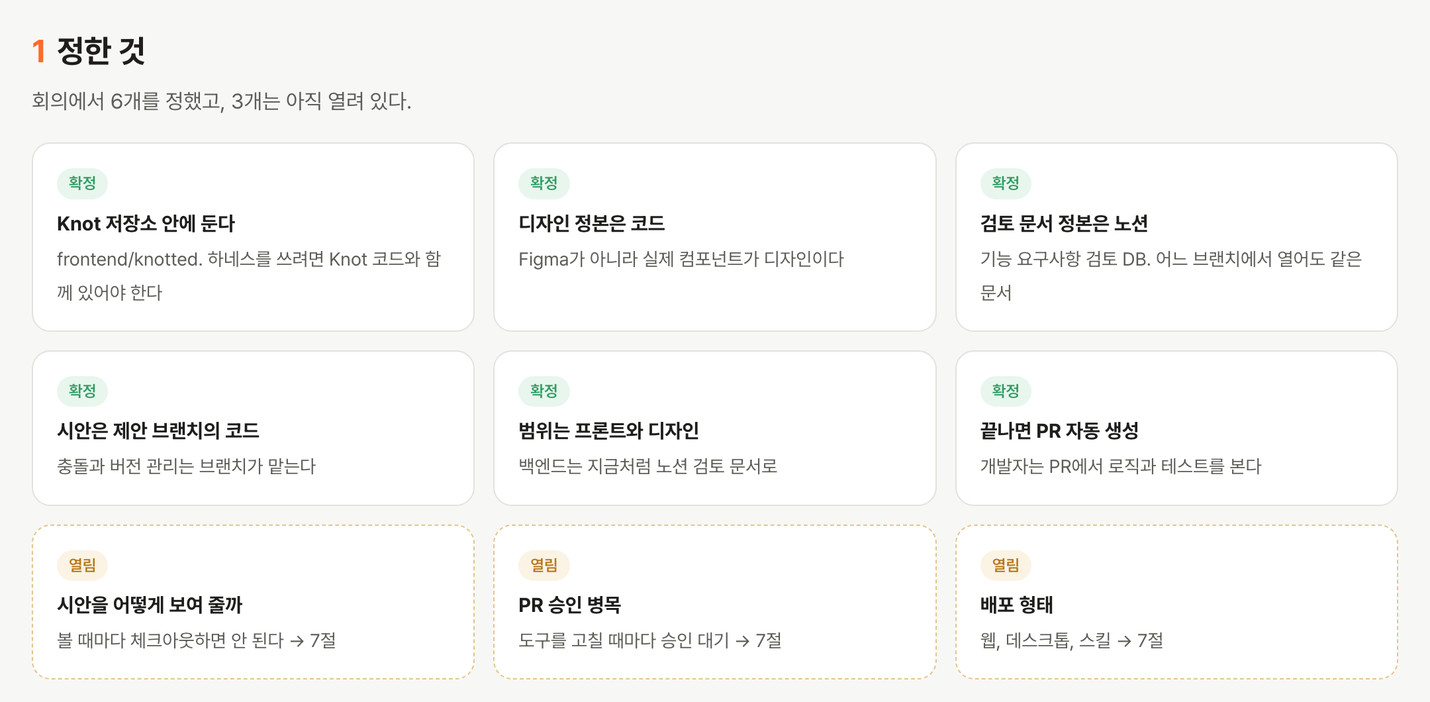
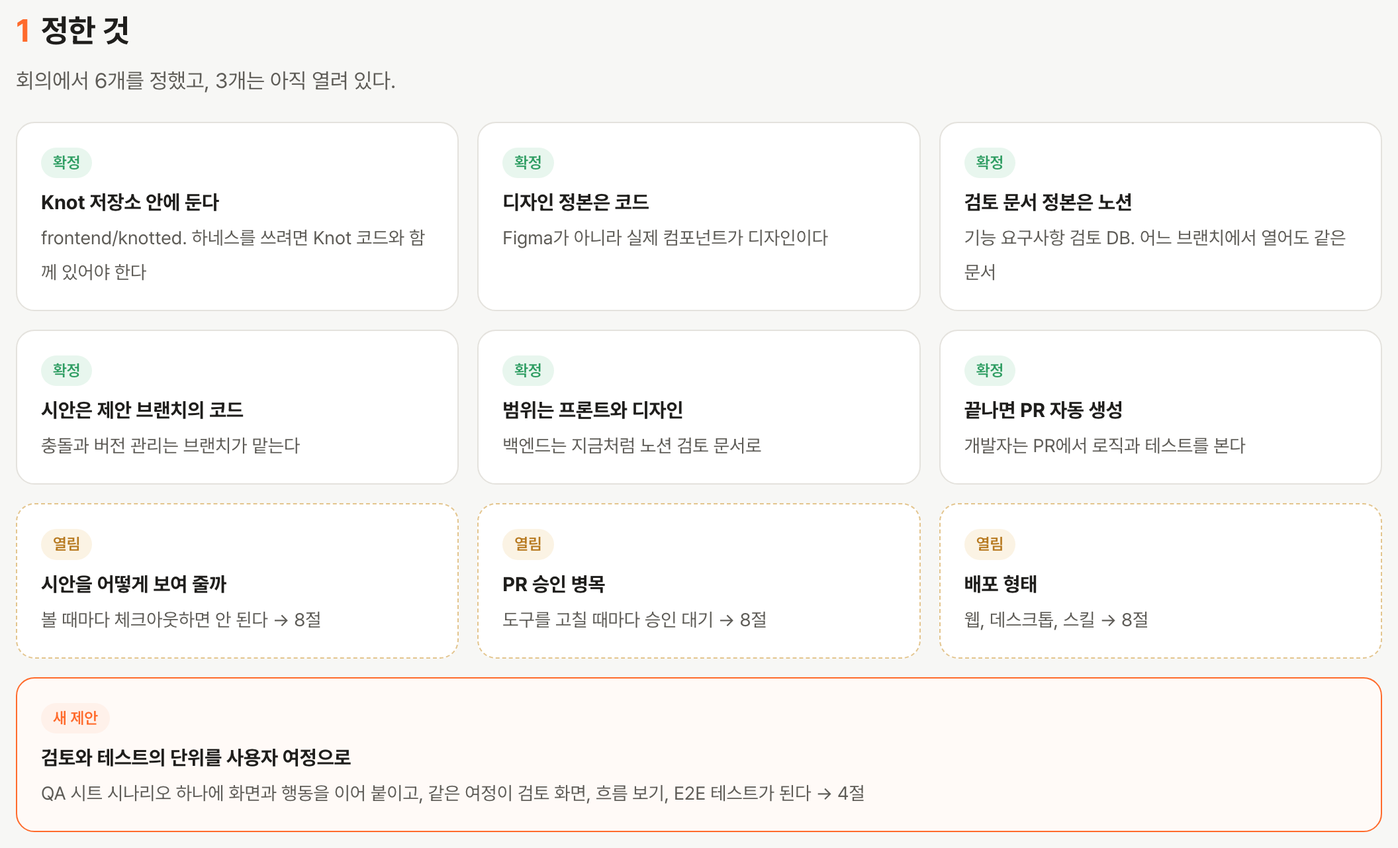
docs: 사용자 여정을 설계에 넣고 그림 갱신

diff --git a/docs/architecture.html b/docs/architecture.html
@@ -82,8 +82,8 @@
   <h1>기획과 시안을 코드로 함께 만들고, 확정까지 받는 Knot 안의 도구</h1>
   <p class="lead">같은 화면을 Figma와 코드에서 두 번 만들던 문제를, 시안을 처음부터 Knot 코드로 만드는 방식으로 없앤다.</p>
   <nav class="toc">
-    <a href="#s1">1. 정한 것</a><a href="#s2">2. 시스템 구조</a><a href="#s3">3. 끼어드는 시점</a><a href="#s4">4. 지금과 비교</a>
-    <a href="#s5">5. 요소 정보가 나오는 길</a><a href="#s6">6. 무엇을 어디에</a><a href="#s7">7. 열린 문제와 제안</a><a href="#s8">8. 고민한 것</a><a href="#s9">9. 폴더 구조</a><a href="#s10">10. 다음 순서</a>
+    <a href="#s1">1. 정한 것</a><a href="#s2">2. 시스템 구조</a><a href="#s3">3. 끼어드는 시점</a><a href="#s4">4. 사용자 여정</a><a href="#s5">5. 지금과 비교</a>
+    <a href="#s6">6. 요소 정보가 나오는 길</a><a href="#s7">7. 무엇을 어디에</a><a href="#s8">8. 열린 문제와 제안</a><a href="#s9">9. 고민한 것</a><a href="#s10">10. 폴더 구조</a><a href="#s11">11. 다음 순서</a>
   </nav>
 </header>
 
@@ -98,9 +98,10 @@
     <div class="decision"><span class="chip ok">확정</span><b>시안은 제안 브랜치의 코드</b><span class="d">충돌과 버전 관리는 브랜치가 맡는다</span></div>
     <div class="decision"><span class="chip ok">확정</span><b>범위는 프론트와 디자인</b><span class="d">백엔드는 지금처럼 노션 검토 문서로</span></div>
     <div class="decision"><span class="chip ok">확정</span><b>끝나면 PR 자동 생성</b><span class="d">개발자는 PR에서 로직과 테스트를 본다</span></div>
-    <div class="decision open"><span class="chip open">열림</span><b>시안을 어떻게 보여 줄까</b><span class="d">볼 때마다 체크아웃하면 안 된다 → 7절</span></div>
-    <div class="decision open"><span class="chip open">열림</span><b>PR 승인 병목</b><span class="d">도구를 고칠 때마다 승인 대기 → 7절</span></div>
-    <div class="decision open"><span class="chip open">열림</span><b>배포 형태</b><span class="d">웹, 데스크톱, 스킬 → 7절</span></div>
+    <div class="decision open"><span class="chip open">열림</span><b>시안을 어떻게 보여 줄까</b><span class="d">볼 때마다 체크아웃하면 안 된다 → 8절</span></div>
+    <div class="decision open"><span class="chip open">열림</span><b>PR 승인 병목</b><span class="d">도구를 고칠 때마다 승인 대기 → 8절</span></div>
+    <div class="decision open"><span class="chip open">열림</span><b>배포 형태</b><span class="d">웹, 데스크톱, 스킬 → 8절</span></div>
+    <div class="decision" style="grid-column:1/-1;border-color:#ff6b2c;background:#fffaf7"><span class="chip k">새 제안</span><b>검토와 테스트의 단위를 사용자 여정으로</b><span class="d">QA 시트 시나리오 하나에 화면과 행동을 이어 붙이고, 같은 여정이 검토 화면, 흐름 보기, E2E 테스트가 된다 → 4절</span></div>
   </div>
 </section>
 
@@ -161,7 +162,7 @@
     <rect x="375" y="325" width="250" height="120" rx="12" fill="#fff" stroke="#6e56cf" stroke-width="1.4" stroke-dasharray="5 4"/>
     <text x="391" y="353" font-size="15" font-weight="700" fill="#6e56cf">제안 브랜치</text>
     <text x="391" y="376" font-size="13" fill="#5e5c57">fe/feature/#번호</text>
-    <text x="391" y="398" font-size="13" fill="#5e5c57">ProfileMenu.draft.tsx (시안)</text>
+    <text x="391" y="398" font-size="13" fill="#5e5c57">*.draft.tsx 시안, *.journey.ts 여정</text>
     <text x="391" y="420" font-size="13" fill="#5e5c57">확정 뒤 로직, 테스트도 여기에</text>
 
     <rect x="375" y="465" width="250" height="100" rx="12" fill="#fff" stroke="#e4e2dd"/>
@@ -174,7 +175,7 @@
     <text x="696" y="113" font-size="15.5" font-weight="700" fill="#37352f">노션 검토 DB</text>
     <text x="696" y="136" font-size="13" fill="#5e5c57">검토 문서 정본 (기획 + 시안 링크)</text>
     <text x="696" y="157" font-size="13" fill="#5e5c57">상태, 컨펌한 사람, 날짜</text>
-    <text x="696" y="185" font-size="12.5" fill="#9a978f">백엔드 제안도 여기서 그대로</text>
+    <text x="696" y="185" font-size="12.5" fill="#9a978f">QA 시트: 시나리오 정본</text>
 
     <rect x="680" y="225" width="290" height="100" rx="12" fill="#fff" stroke="#6e56cf" stroke-width="1.4"/>
     <text x="696" y="253" font-size="15.5" font-weight="700" fill="#6e56cf">GitHub PR</text>
@@ -264,7 +265,7 @@
       <text x="170" y="184" text-anchor="middle" font-weight="700">기획 질문</text><text x="170" y="202" text-anchor="middle" fill="#5e5c57">요구사항이 바로</text><text x="170" y="218" text-anchor="middle" fill="#5e5c57">쌓인다</text>
 
       <rect x="250" y="160" width="130" height="66" rx="10" fill="#fff" stroke="#ff6b2c"/>
-      <text x="315" y="184" text-anchor="middle" font-weight="700">시안을 코드로</text><text x="315" y="202" text-anchor="middle" fill="#5e5c57">요구사항마다</text><text x="315" y="218" text-anchor="middle" fill="#5e5c57">상태별 화면</text>
+      <text x="315" y="184" text-anchor="middle" font-weight="700">시안을 코드로</text><text x="315" y="202" text-anchor="middle" fill="#5e5c57">시나리오마다</text><text x="315" y="218" text-anchor="middle" fill="#5e5c57">화면과 여정</text>
 
       <rect x="250" y="62" width="130" height="52" rx="10" fill="#fff" stroke="#ff6b2c"/>
       <text x="315" y="84" text-anchor="middle" font-weight="700">눌러 보며 수정</text><text x="315" y="102" text-anchor="middle" fill="#5e5c57">요소 툴바, 수정 요청</text>
@@ -285,7 +286,7 @@
       <text x="780" y="184" text-anchor="middle" font-weight="700">반영</text><text x="780" y="202" text-anchor="middle" fill="#5e5c57">정본, QA 시트,</text><text x="780" y="218" text-anchor="middle" fill="#5e5c57">이슈</text>
 
       <rect x="860" y="160" width="130" height="66" rx="10" fill="#fff" stroke="#e4e2dd"/>
-      <text x="925" y="184" text-anchor="middle" font-weight="700">로직, 테스트</text><text x="925" y="202" text-anchor="middle" fill="#5e5c57">같은 브랜치에서</text><text x="925" y="218" text-anchor="middle" fill="#5e5c57">시안에 더한다</text>
+      <text x="925" y="184" text-anchor="middle" font-weight="700">로직, 테스트</text><text x="925" y="202" text-anchor="middle" fill="#5e5c57">여정으로 E2E,</text><text x="925" y="218" text-anchor="middle" fill="#5e5c57">로직을 더한다</text>
 
       <rect x="860" y="362" width="130" height="58" rx="10" fill="#fff" stroke="#6e56cf"/>
       <text x="925" y="386" text-anchor="middle" font-weight="700">PR 자동 생성</text><text x="925" y="404" text-anchor="middle" fill="#5e5c57">FE 승인 → 머지</text>
@@ -311,9 +312,202 @@
   </div>
 </section>
 
-<!-- 4 -->
+<!-- journey -->
 <section id="s4">
-  <h2><span class="num">4</span>지금과 비교</h2>
+  <h2><span class="num">4</span>사용자 여정: 시나리오, 화면, 테스트를 하나로</h2>
+  <p class="desc">기획, 디자인, 개발이 한 도구에서 일어나면, 셋을 잇는 단위가 필요하다. 그 단위를 사용자 여정(QA 시트의 시나리오 하나)으로 둔다. 화면은 여정의 한 단계이고, 여정은 그대로 E2E 테스트가 된다.</p>
+
+  <div class="card" style="background:#141414;border-color:#2a2a2c;padding:18px">
+  <svg viewBox="0 0 1000 720" role="img" aria-label="사용자 여정 화면 예시">
+    <defs>
+      <marker id="jh" viewBox="0 0 10 10" refX="9" refY="5" markerWidth="7" markerHeight="7" orient="auto"><path d="M0,0 L10,5 L0,10 z" fill="#ff6b2c"/></marker>
+      <marker id="jg" viewBox="0 0 10 10" refX="9" refY="5" markerWidth="7" markerHeight="7" orient="auto"><path d="M0,0 L10,5 L0,10 z" fill="#55555a"/></marker>
+      <clipPath id="th"><rect width="176" height="118" rx="6"/></clipPath>
+      <pattern id="dots" width="22" height="22" patternUnits="userSpaceOnUse"><circle cx="1" cy="1" r="1" fill="#2a2a2d"/></pattern>
+    </defs>
+    <rect x="0" y="0" width="1000" height="530" fill="url(#dots)"/>
+    <text x="10" y="18" font-size="12" fill="#77777c">여정 &gt; 로그인과 로그아웃</text>
+
+    <!-- edges (gray) -->
+    <g stroke="#55555a" stroke-width="1.6" fill="none" marker-end="url(#jg)">
+      <path d="M620 238 L620 288"/>
+      <path d="M345 238 C 330 260, 160 262, 125 288"/>
+      <path d="M220 395 L266 395"/>
+      <path d="M370 498 L370 518 L988 518 L988 135 L974 135"/>
+    </g>
+    <!-- edges (selected path, orange) -->
+    <g stroke="#ff6b2c" stroke-width="2.4" fill="none" marker-end="url(#jh)">
+      <path d="M220 135 L266 135"/>
+      <path d="M470 135 L516 135"/>
+      <path d="M720 135 L766 135"/>
+    </g>
+    <g font-size="12" font-weight="700" text-anchor="middle">
+      <rect x="230" y="104" width="26" height="18" rx="4" fill="#ff6b2c"/><text x="243" y="117" fill="#141414">1</text>
+      <rect x="480" y="104" width="26" height="18" rx="4" fill="#ff6b2c"/><text x="493" y="117" fill="#141414">2</text>
+      <rect x="730" y="104" width="26" height="18" rx="4" fill="#ff6b2c"/><text x="743" y="117" fill="#141414">3</text>
+    </g>
+    <g font-size="11.5" fill="#8d8d92">
+      <text x="628" y="268">실패하면</text>
+      <text x="170" y="256">녹음 중이면</text>
+      <text x="222" y="385">끝내고</text>
+      <text x="760" y="505">로그인 화면으로</text>
+    </g>
+
+    <!-- node template: x,y -->
+    <g font-family="Pretendard Variable, Pretendard, sans-serif">
+      <!-- n1 home -->
+      <g transform="translate(20,30)">
+        <rect width="200" height="208" rx="12" fill="#1c1c1e" stroke="#ff6b2c" stroke-width="1.6"/>
+        <text x="12" y="22" font-size="10.5" fill="#77777c">케이스 1</text>
+        <text x="12" y="42" font-size="14" font-weight="700" fill="#ededed">홈</text>
+        <text x="12" y="58" font-size="10.5" fill="#8d8d92" font-family="Menlo, monospace">Home.Default</text>
+        <g transform="translate(12,76)" clip-path="url(#th)"><image href="../design/knot-app/home-default.png" width="176" height="125" preserveAspectRatio="xMidYMin slice"/></g>
+      </g>
+      <!-- n2 menu -->
+      <g transform="translate(270,30)">
+        <rect width="200" height="208" rx="12" fill="#1c1c1e" stroke="#ff6b2c" stroke-width="1.6"/>
+        <text x="12" y="22" font-size="10.5" fill="#77777c">케이스 2</text><rect x="140" y="10" width="50" height="17" rx="4" fill="#3a2418"/><text x="165" y="22" font-size="10" fill="#ff8a57" text-anchor="middle">R17</text>
+        <text x="12" y="42" font-size="14" font-weight="700" fill="#ededed">프로필 메뉴 열림</text>
+        <text x="12" y="58" font-size="10.5" fill="#8d8d92" font-family="Menlo, monospace">Home.ProfileMenuOpen</text>
+        <g transform="translate(12,76)" clip-path="url(#th)"><image href="../design/knot-app/home-profile-menu-open.png" width="176" height="125" preserveAspectRatio="xMidYMin slice"/></g>
+      </g>
+      <!-- n3 logging out -->
+      <g transform="translate(520,30)">
+        <rect width="200" height="208" rx="12" fill="#1c1c1e" stroke="#ff6b2c" stroke-width="1.6"/>
+        <text x="12" y="22" font-size="10.5" fill="#77777c">케이스 3</text><rect x="140" y="10" width="50" height="17" rx="4" fill="#3a2418"/><text x="165" y="22" font-size="10" fill="#ff8a57" text-anchor="middle">R19</text>
+        <text x="12" y="42" font-size="14" font-weight="700" fill="#ededed">로그아웃 처리 중</text>
+        <text x="12" y="58" font-size="10.5" fill="#8d8d92" font-family="Menlo, monospace">Home.LoggingOut</text>
+        <g transform="translate(12,76)" clip-path="url(#th)"><image href="../design/knot-app/home-profile-menu-logging-out.png" width="176" height="125" preserveAspectRatio="xMidYMin slice"/></g>
+      </g>
+      <!-- n4 login -->
+      <g transform="translate(770,30)">
+        <rect width="200" height="208" rx="12" fill="#1c1c1e" stroke="#ff6b2c" stroke-width="1.6"/>
+        <text x="12" y="22" font-size="10.5" fill="#77777c">케이스 4</text><rect x="140" y="10" width="50" height="17" rx="4" fill="#3a2418"/><text x="165" y="22" font-size="10" fill="#ff8a57" text-anchor="middle">R18</text>
+        <text x="12" y="42" font-size="14" font-weight="700" fill="#ededed">로그인 화면</text>
+        <text x="12" y="58" font-size="10.5" fill="#8d8d92" font-family="Menlo, monospace">Login.Default</text>
+        <g transform="translate(12,76)" clip-path="url(#th)"><image href="../design/knot-app/login-default.png" width="176" height="125" preserveAspectRatio="xMidYMin slice"/></g>
+      </g>
+      <!-- n6 recording confirm -->
+      <g transform="translate(20,290)" opacity="0.6">
+        <rect width="200" height="208" rx="12" fill="#1c1c1e" stroke="#3a3a3d"/>
+        <text x="12" y="22" font-size="10.5" fill="#77777c">케이스 5</text><rect x="140" y="10" width="50" height="17" rx="4" fill="#2a2a2d"/><text x="165" y="22" font-size="10" fill="#9a9aa0" text-anchor="middle">R22</text>
+        <text x="12" y="42" font-size="14" font-weight="700" fill="#ededed">녹음 중 확인</text>
+        <text x="12" y="58" font-size="10.5" fill="#8d8d92" font-family="Menlo, monospace">Home.RecordingConfirm</text>
+        <g transform="translate(12,76)" clip-path="url(#th)"><image href="../design/knot-app/logout-recording-confirm.png" width="176" height="125" preserveAspectRatio="xMidYMin slice"/></g>
+      </g>
+      <!-- n7 finish -->
+      <g transform="translate(270,290)" opacity="0.6">
+        <rect width="200" height="208" rx="12" fill="#1c1c1e" stroke="#3a3a3d"/>
+        <text x="12" y="22" font-size="10.5" fill="#77777c">케이스 6</text><rect x="140" y="10" width="50" height="17" rx="4" fill="#2a2a2d"/><text x="165" y="22" font-size="10" fill="#9a9aa0" text-anchor="middle">R22</text>
+        <text x="12" y="42" font-size="14" font-weight="700" fill="#ededed">끝내고 로그아웃 처리 중</text>
+        <text x="12" y="58" font-size="10.5" fill="#8d8d92" font-family="Menlo, monospace">Home.FinishLoggingOut</text>
+        <g transform="translate(12,76)" clip-path="url(#th)"><image href="../design/knot-app/logout-finish-and-logging-out.png" width="176" height="125" preserveAspectRatio="xMidYMin slice"/></g>
+      </g>
+      <!-- n5 failed -->
+      <g transform="translate(520,290)" opacity="0.6">
+        <rect width="200" height="208" rx="12" fill="#1c1c1e" stroke="#3a3a3d"/>
+        <text x="12" y="22" font-size="10.5" fill="#77777c">케이스 7</text><rect x="140" y="10" width="50" height="17" rx="4" fill="#2a2a2d"/><text x="165" y="22" font-size="10" fill="#9a9aa0" text-anchor="middle">R19</text>
+        <text x="12" y="42" font-size="14" font-weight="700" fill="#ededed">로그아웃 실패</text>
+        <text x="12" y="58" font-size="10.5" fill="#8d8d92" font-family="Menlo, monospace">Home.LogoutFailed</text>
+        <g transform="translate(12,76)" clip-path="url(#th)"><image href="../design/knot-app/home-logout-failed.png" width="176" height="125" preserveAspectRatio="xMidYMin slice"/></g>
+      </g>
+    </g>
+
+    <!-- bottom journey panel -->
+    <rect x="0" y="540" width="1000" height="180" rx="10" fill="#1a1a1c" stroke="#2a2a2c"/>
+    <text x="16" y="564" font-size="12.5" font-weight="700" fill="#ededed">사용자 여정</text><text x="96" y="564" font-size="11.5" fill="#77777c">QA 시트 시나리오 3</text>
+    <line x1="430" y1="550" x2="430" y2="710" stroke="#2a2a2c"/>
+    <g font-size="12.5">
+      <rect x="10" y="576" width="410" height="36" rx="6" fill="#2a1d16"/>
+      <text x="20" y="599" fill="#ff8a57" font-weight="700">AUTH-QA-031</text><text x="112" y="599" fill="#ededed">녹음 안 할 때 로그아웃하면 로그인 화면으로</text><text x="404" y="599" fill="#77777c" text-anchor="end">3단계</text>
+      <text x="20" y="636" fill="#9a9aa0">AUTH-QA-032</text><text x="112" y="636" fill="#b8b8bc">로그아웃이 실패하면 메뉴를 두고 토스트</text><text x="404" y="636" fill="#77777c" text-anchor="end">3단계</text>
+      <text x="20" y="670" fill="#9a9aa0">AUTH-QA-033</text><text x="112" y="670" fill="#b8b8bc">녹음 중이면 끝낼지 먼저 묻는다</text><text x="404" y="670" fill="#77777c" text-anchor="end">4단계</text>
+      <text x="20" y="703" fill="#5f5f64" font-size="11">시나리오 이름과 문장은 노션 QA 시트에서 읽는다 (ID는 예시)</text>
+
+      <text x="448" y="584" fill="#ededed" font-weight="700">녹음 안 할 때 로그아웃하면 로그인 화면으로</text>
+      <g font-size="12.5">
+        <circle cx="458" cy="610" r="9" fill="#ff6b2c"/><text x="458" y="614" text-anchor="middle" font-size="11" font-weight="700" fill="#141414">1</text>
+        <text x="476" y="614" fill="#d6d6d9">홈에서 프로필 사진을 누르면 프로필 메뉴가 열린다</text><text x="984" y="614" fill="#77777c" text-anchor="end">AUTH-R17</text>
+        <circle cx="458" cy="640" r="9" fill="#ff6b2c"/><text x="458" y="644" text-anchor="middle" font-size="11" font-weight="700" fill="#141414">2</text>
+        <text x="476" y="644" fill="#d6d6d9">로그아웃을 누르면 처리 중이 된다</text><text x="984" y="644" fill="#77777c" text-anchor="end">AUTH-R19</text>
+        <circle cx="458" cy="670" r="9" fill="#ff6b2c"/><text x="458" y="674" text-anchor="middle" font-size="11" font-weight="700" fill="#141414">3</text>
+        <text x="476" y="674" fill="#d6d6d9">로그인 화면으로 가고, 만료 토스트는 뜨지 않는다</text><text x="984" y="674" fill="#77777c" text-anchor="end">AUTH-R18, R21</text>
+        <text x="476" y="702" fill="#5f5f64" font-size="11">E2E: src/__test__/logout.test.ts  [AUTH-QA-031] 통과</text>
+      </g>
+    </g>
+  </svg>
+  </div>
+  <p class="desc" style="margin-top:10px">아래 목록에서 시나리오를 고르면 캔버스에서 그 여정의 화면과 화살표만 밝아진다. 화면 카드에는 시안 코드 이름과 요구사항 ID가, 화살표에는 사용자가 하는 행동이 붙는다.</p>
+
+  <div class="card">
+    <h3 style="margin:0 0 6px">정보가 이어지는 방식</h3>
+    <p class="desc" style="margin:0 0 14px">요구사항 ID와 시나리오 ID가 노션과 코드를 잇는 열쇠다. 노션에는 문장을, 코드에는 화면과 행동을 둔다.</p>
+    <svg viewBox="0 0 1000 270" role="img" aria-label="데이터 연결 구조">
+      <defs><marker id="dm" viewBox="0 0 10 10" refX="9" refY="5" markerWidth="7" markerHeight="7" orient="auto"><path d="M0,0 L10,5 L0,10 z" fill="#8a877f"/></marker></defs>
+      <rect x="0" y="0" width="470" height="270" rx="14" fill="#f4f3f1"/><text x="16" y="26" font-size="14" font-weight="700" fill="#37352f">노션 (문장의 정본)</text>
+      <rect x="490" y="0" width="510" height="270" rx="14" fill="#fff7f2"/><text x="506" y="26" font-size="14" font-weight="700" fill="#ff6b2c">코드 (화면과 행동의 정본)</text>
+      <g font-size="13.5">
+        <rect x="20" y="50" width="200" height="74" rx="10" fill="#fff" stroke="#37352f"/><text x="36" y="76" font-weight="700">기능 요구사항</text><text x="36" y="98" fill="#5e5c57">AUTH-R17 프로필 메뉴</text><text x="36" y="116" fill="#9a978f" font-size="12">무엇을 해야 하나</text>
+        <rect x="250" y="50" width="200" height="74" rx="10" fill="#fff" stroke="#37352f"/><text x="266" y="76" font-weight="700">시나리오 (QA 시트)</text><text x="266" y="98" fill="#5e5c57">AUTH-QA-031</text><text x="266" y="116" fill="#9a978f" font-size="12">사전 조건, 절차, 기대 결과</text>
+        <rect x="20" y="160" width="430" height="88" rx="10" fill="#fff" stroke="#e4e2dd"/><text x="36" y="186" font-weight="700">검토 문서</text><text x="36" y="208" fill="#5e5c57">이번 제안이 더하는 요구사항, 시나리오,</text><text x="36" y="228" fill="#5e5c57">미리보기 주소, 상태</text>
+
+        <rect x="510" y="50" width="220" height="74" rx="10" fill="#fff" stroke="#ff6b2c"/><text x="526" y="76" font-weight="700">여정 파일</text><text x="526" y="98" fill="#5e5c57" font-family="Menlo, monospace" font-size="12">logout.journey.ts</text><text x="526" y="116" fill="#9a978f" font-size="12">시나리오 ID별 단계 목록</text>
+        <rect x="760" y="50" width="220" height="74" rx="10" fill="#fff" stroke="#ff6b2c"/><text x="776" y="76" font-weight="700">화면 상태 (시안)</text><text x="776" y="98" fill="#5e5c57" font-family="Menlo, monospace" font-size="12">Home.ProfileMenuOpen</text><text x="776" y="116" fill="#9a978f" font-size="12">*.draft.tsx 의 내보내기 하나</text>
+        <rect x="510" y="160" width="470" height="88" rx="10" fill="#fff" stroke="#6e56cf"/><text x="526" y="186" font-weight="700">E2E 테스트</text><text x="526" y="208" fill="#5e5c57">테스트 이름에 시나리오 ID [AUTH-QA-031]</text><text x="526" y="228" fill="#5e5c57">여정 파일의 단계를 그대로 실행 (MSW 목 데이터)</text>
+      </g>
+      <g stroke="#8a877f" stroke-width="1.5" fill="none" marker-end="url(#dm)">
+        <path d="M222 87 L246 87"/>
+        <path d="M452 87 L506 87"/>
+        <path d="M732 87 L756 87"/>
+        <path d="M620 126 L620 156"/>
+      </g>
+      <g font-size="11.5" fill="#8a877f"><text x="226" y="80">1:N</text><text x="462" y="80">ID로</text><text x="736" y="80">N:1</text><text x="628" y="146">1:1</text></g>
+    </svg>
+  </div>
+
+  <div class="grid g2" style="margin-top:16px">
+    <div class="card">
+      <h3 style="margin:0 0 6px">여정 파일 하나, 쓰는 곳 셋</h3>
+      <p class="desc" style="margin:0 0 12px">시안 화면과 단계를 한 번만 적고 세 곳에서 쓴다. 노션 문장은 옮기지 않고 ID만 적는다.</p>
+<pre><span class="c">// logout.journey.ts (제안 브랜치)</span>
+export default journey({
+  <span class="k">'AUTH-QA-031'</span>: [
+    { screen: Home.Default },
+    { tap: <span class="k">'MemberProfileAvatar'</span>, screen: Home.ProfileMenuOpen },
+    { tap: <span class="k">'ProfileMenu'</span>, screen: Home.LoggingOut },
+    { screen: Login.Default },
+  ],
+  <span class="k">'AUTH-QA-033'</span>: [
+    { screen: Home.Recording },
+    <span class="c">// ...</span>
+  ],
+});</pre>
+    </div>
+    <div class="card">
+      <h3 style="margin:0 0 12px">세 가지 쓰임</h3>
+      <div class="decision" style="margin-bottom:10px"><span class="chip k">Knotted</span><b>여정 화면</b><span class="d">위 캔버스. 시나리오를 고르면 그 경로만 보인다. 검토도 시나리오 단위로 한다</span></div>
+      <div class="decision" style="margin-bottom:10px"><span class="chip k">Knotted</span><b>흐름 보기 자동 재생</b><span class="d">단계를 차례로 눌러 실제 앱처럼 움직여 보여 준다</span></div>
+      <div class="decision"><span class="chip" style="background:var(--git-soft);color:var(--git)">E2E</span><b>테스트로 변환</b><span class="d">확정 뒤 단계마다 기대 결과를 더해 Playwright 테스트가 된다. QA 시트 시나리오를 다시 해석하지 않는다</span></div>
+    </div>
+  </div>
+
+  <div class="card" style="margin-top:16px">
+    <h3 style="margin:0 0 12px">여정이 만들어지고 쓰이는 때</h3>
+    <table>
+      <tr><th>단계</th><th>시나리오 (노션)</th><th>여정 파일과 화면 (코드)</th></tr>
+      <tr><td><b>기획</b></td><td>채팅으로 정한 요구사항에서 시나리오 초안을 뽑아 검토 문서에 둔다</td><td>시나리오마다 화면을 만들고 여정 파일에 단계를 적는다</td></tr>
+      <tr><td><b>검토</b></td><td>유월이 시나리오 목록을 보고 빠진 경우를 짚는다</td><td>시나리오를 고르면 그 여정이 캔버스에서 밝아진다</td></tr>
+      <tr><td><b>확정</b></td><td>QA 시트 서브 에이전트가 시나리오를 QA 시트 정본에 쓴다</td><td>그대로</td></tr>
+      <tr><td><b>구현</b></td><td>읽기만</td><td>여정 파일에서 E2E를 만들고, 실제 로직을 붙인다</td></tr>
+      <tr><td><b>머지 뒤</b></td><td>읽기만</td><td>develop의 여정 파일이 모여 유저 플로우 화면이 된다. 손으로 그리지 않는다</td></tr>
+    </table>
+  </div>
+</section>
+
+
+<!-- 4 -->
+<section id="s5">
+  <h2><span class="num">5</span>지금과 비교</h2>
   <p class="desc">회색 줄이 그어진 단계가 Knotted를 쓰면 사라진다. 같은 화면을 두 번 만들고, 같다는 걸 증명하던 일이다.</p>
   <div class="card">
   <svg viewBox="0 0 1000 300" role="img" aria-label="지금과 Knotted 비교">
@@ -342,8 +536,8 @@
 </section>
 
 <!-- 5 -->
-<section id="s5">
-  <h2><span class="num">5</span>요소를 누르면 파일 위치가 나오는 길</h2>
+<section id="s6">
+  <h2><span class="num">6</span>요소를 누르면 파일 위치가 나오는 길</h2>
   <p class="desc">React 19는 컴포넌트의 소스 위치 정보를 내부에서 뺐다. 그래서 빌드할 때 요소에 직접 적어 둔다.</p>
   <div class="card">
   <svg viewBox="0 0 1000 200" role="img" aria-label="요소 정보 파이프라인">
@@ -373,8 +567,8 @@
 </section>
 
 <!-- 6 -->
-<section id="s6">
-  <h2><span class="num">6</span>무엇을 어디에 두나</h2>
+<section id="s7">
+  <h2><span class="num">7</span>무엇을 어디에 두나</h2>
   <p class="desc">새로 만드는 저장소는 없다. 서버와 DB도 만들지 않는다.</p>
   <div class="grid g3">
     <div class="decision"><span class="chip k">Git</span><b>시안 코드, 도구 코드</b><span class="d">제안 브랜치와 frontend/knotted. 충돌과 버전은 브랜치가 맡는다</span></div>
@@ -382,13 +576,15 @@
     <div class="decision"><span class="chip" style="background:var(--preview-soft);color:var(--preview)">Cloudflare</span><b>미리보기 화면</b><span class="d">PR마다 정적 빌드. 노션 내용은 빌드할 때 함께 굽는다</span></div>
     <div class="decision"><span class="chip" style="background:var(--git-soft);color:var(--git)">GitHub</span><b>PR, 승인 기록</b><span class="d">로직과 테스트 검토는 여기서</span></div>
     <div class="decision"><span class="chip" style="background:#f1f0ee;color:#5e5c57">저장 안 함</span><b>수정 요청</b><span class="d">로컬 Knotted가 연결된 에이전트에게 채팅처럼 바로 보낸다</span></div>
+    <div class="decision"><span class="chip" style="background:var(--notion-soft);color:var(--notion)">노션</span><b>시나리오</b><span class="d">QA 시트. 사전 조건, 절차, 기대 결과 문장의 정본</span></div>
+    <div class="decision"><span class="chip k">Git</span><b>여정</b><span class="d">*.journey.ts. 시나리오 ID별로 화면과 행동만 적는다</span></div>
     <div class="decision"><span class="chip" style="background:#f1f0ee;color:#5e5c57">저장 안 함</span><b>요소 정보</b><span class="d">빌드할 때 요소에 붙어 있다</span></div>
   </div>
 </section>
 
 <!-- 7 -->
-<section id="s7">
-  <h2><span class="num">7</span>열린 문제와 제안</h2>
+<section id="s8">
+  <h2><span class="num">8</span>열린 문제와 제안</h2>
   <p class="desc">회의에서 정하지 못한 세 가지에 대한 제안이다. 팀 확인이 필요하다.</p>
 
   <div class="card">
@@ -450,8 +646,8 @@
 </section>
 
 <!-- 8 -->
-<section id="s8">
-  <h2><span class="num">8</span>고민한 것</h2>
+<section id="s9">
+  <h2><span class="num">9</span>고민한 것</h2>
   <p class="desc">하루 전에 정한 npm 배포와 md 저장은 회의에서 뒤집혔다. 근거가 틀린 게 아니라 무게가 달랐다.</p>
   <div class="card">
     <table>
@@ -461,23 +657,26 @@
       <tr><td>시안 저장</td><td>브랜치</td><td><b>브랜치</b> (압축 파일 안 기각)</td><td>시안을 복원하는 건 버전 관리를 다시 만드는 일</td></tr>
       <tr><td>따로 배포</td><td>별도 앱</td><td><b>경로 기준 배포</b></td><td>frontend/knotted가 바뀔 때만 미리보기를 배포</td></tr>
       <tr><td>범위</td><td>기획부터 확정까지</td><td><b>프론트와 디자인</b></td><td>만능 도구로 커질 걱정. 백엔드는 노션으로</td></tr>
+      <tr><td>검토 단위</td><td>화면 목록</td><td><b>사용자 여정</b> (새 제안)</td><td>QA 시트 시나리오, 화면, E2E를 한 줄로 잇는다</td></tr>
       <tr><td>상용화</td><td>처음부터 떼어 내기</td><td><b>나중에</b></td><td>폴더 하나에 모아 두면 나중에 떼어 낼 수 있다</td></tr>
     </table>
   </div>
 </section>
 
 <!-- 9 -->
-<section id="s9">
-  <h2><span class="num">9</span>폴더 구조</h2>
+<section id="s10">
+  <h2><span class="num">10</span>폴더 구조</h2>
   <p class="desc">Knotted 코드는 한 폴더에 모은다. 시안 파일만 기능 폴더 옆에 둔다.</p>
 <pre>frontend/
   src/                          <span class="c">지금 Knot 코드</span>
     modules/features/.../
       ProfileMenu.tsx
       <span class="k">ProfileMenu.draft.tsx</span>     <span class="c">시안 (제안 브랜치에만)</span>
+      <span class="k">logout.journey.ts</span>     <span class="c">여정: 시나리오 ID별 단계</span>
   <span class="k">knotted/</span>
     shell/                      <span class="c">Knotted 화면: 제안함, 캔버스, 패널</span>
     runtime/                    <span class="c">iframe 안에서 요소 찾기, 위치 재기</span>
+    journey/                    <span class="c">여정 읽기, 여정 캔버스, E2E 변환</span>
     babel/                      <span class="c">요소에 이름과 파일 위치 붙이기</span>
     server/                     <span class="c">노션 읽기와 쓰기, 에이전트, 브랜치와 PR</span>
   <span class="k">webpack.knotted.config.js</span>     <span class="c">기존 설정을 읽어 Knotted 엔트리를 추가</span>
@@ -487,11 +686,12 @@
 </section>
 
 <!-- 10 -->
-<section id="s10">
-  <h2><span class="num">10</span>다음 순서</h2>
+<section id="s11">
+  <h2><span class="num">11</span>다음 순서</h2>
   <ol class="steps">
-    <li><b>팀 확인</b><small>7절 제안 세 가지: 미리보기 주소, 경로 기준 자동 승인, 웹 먼저</small></li>
+    <li><b>팀 확인</b><small>8절 제안 세 가지: 미리보기 주소, 경로 기준 자동 승인, 웹 먼저</small></li>
     <li><b>기술 검증</b><small>Knot의 ProfileMenu 시안 하나를 frontend/knotted에서 iframe으로 띄우고, 누르면 파일 위치가 나오는지 확인</small></li>
+    <li><b>여정 파일 형식 정하기</b><small>로그아웃 시나리오 3개로 여정 파일을 써 보고, 같은 파일로 E2E가 도는지 확인</small></li>
     <li><b>프로토타입 화면 옮기기</b><small>vlmbuyd/knotted의 화면을 frontend/knotted/shell로</small></li>
     <li><b>워크플로 추가</b><small>미리보기 배포, 자동 승인</small></li>
     <li><b>하네스 연결</b><small>knot-feature에 Knotted 단계 추가 (지금 디자인 서브 에이전트 자리)</small></li>
